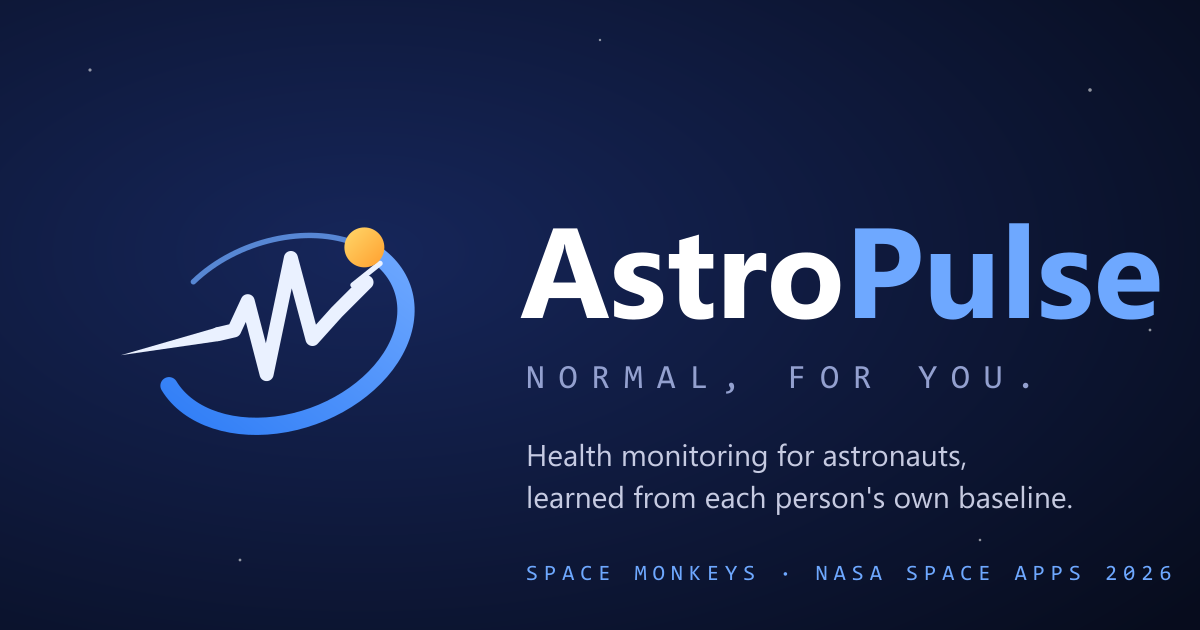
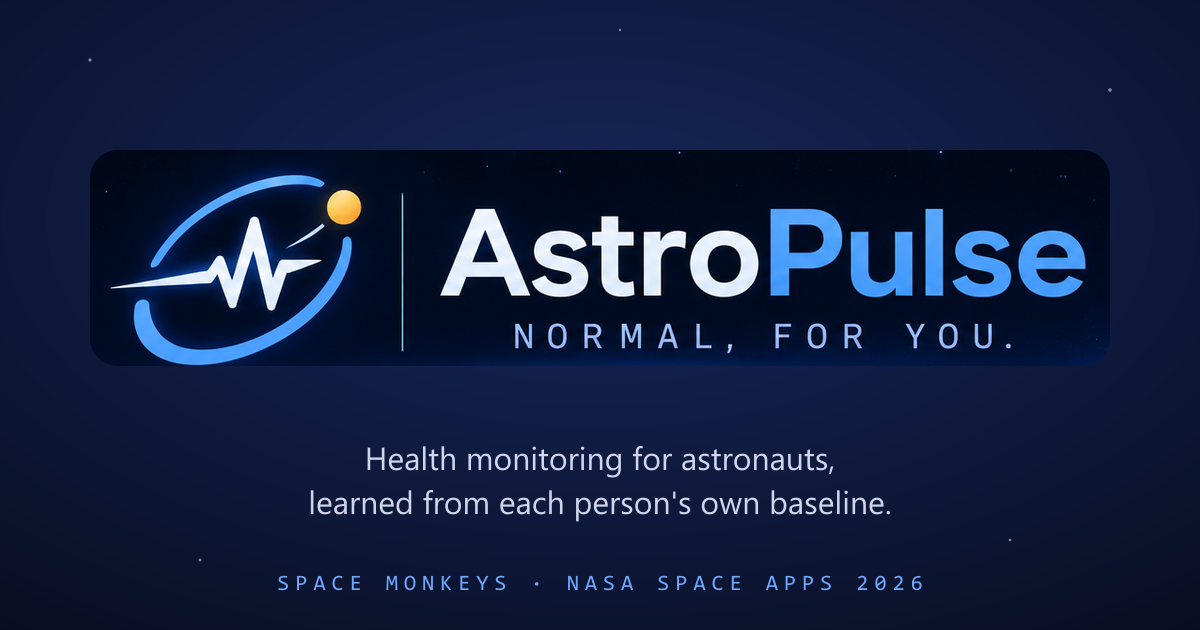
brand lockup in README/OG card; plain-language help on every page; 7-step tour; walkthrough guide
- docs/brand/logo-lockup.png (the designed horizontal lockup) used in the README; web/public/og.png built from it
- PageHelp: 'What is this page?', things to try and a short glossary at the top of each of the 8 pages (hideable, remembered per device)
- Tour: 7 plain steps incl. the camera pulse, the whole-crew view and playing the doctor on Earth
- Ground control says who you are and how the delay works
- docs/pitch/walkthrough.md: page by page, feature by feature, what to click, what happens, what to say

diff --git a/web/src/help/PageHelp.jsx b/web/src/help/PageHelp.jsx
@@ -1,0 +1,98 @@
+import { useState } from 'react'
+
+// Plain-language help at the top of every page, written for someone who has never seen the app and knows nothing about health or space:
+// what this page is, one or two things to try, and the few words that might be new. Hidden per page with "Hide tips" (remembered on this device).
+const KEY = 'astropulse.help.hidden'
+
+export const HELP = {
+  status: {
+    what: 'This is what the astronaut sees. Each card is one health number (heart rate, sleep and so on). Green means fine, yellow means keep an eye on it, red means do something now.',
+    tryIt: [
+      'On a phone, press “Measure my pulse”. On a laptop, press “Simulate readings”. A number on the page changes by itself.',
+      'Tap a card to open its chart and the reason behind it.',
+      'If something is red, press “Guide me through it”, then “Report to Earth”.',
+    ],
+    words: [
+      ['AstroPulse Index', 'One number from 0 to 100 for how far you are from your own normal.'],
+      ['Your own normal (baseline)', 'What is usual for you, learned from your first week. Not the same as other people.'],
+      ['Flagged', 'The app noticed a steady drift away from your normal.'],
+      ['Earth delay', 'A message to Earth takes minutes on a Mars mission, so the crew has to act first.'],
+      ['Hazard', 'One of NASA’s five dangers of space travel (radiation, isolation, distance, gravity, a closed space).'],
+      ['Sample data', 'Made-up numbers for the demo. The pulse from your camera and the space weather are real.'],
+    ],
+  },
+  body: {
+    what: 'A body map. Each part lights up with the color of the health numbers linked to it, so you can see where the problem is at a glance.',
+    tryIt: ['Tap a part of the body to see its numbers and the advice for it.'],
+  },
+  log: {
+    what: 'Type in numbers you measured yourself: blood pressure, blood sugar, sleep and mood. The app has no sensors for these, so you enter them by hand.',
+    tryIt: ['Fill in only what you measured, then press Send.', 'Go back to Status to see its new color.'],
+    words: [['Upper and lower blood pressure', 'Also called systolic (the first, higher number) and diastolic (the second, lower number).']],
+  },
+  checks: {
+    what: 'Two quick tests you can do right now: a reaction test (tiredness makes you slower) and a close-up vision check. They are only compared with your own earlier results.',
+    tryIt: ['Run the reaction test a few times on different days to set your own normal.', 'Or press “Load a demo baseline” at the bottom to see how it reacts.'],
+  },
+  replay: {
+    what: 'A replay of the demo story: two weeks on the way to Mars. Ordinary health apps use fixed ranges. AstroPulse compares each person with their own normal. This page shows both side by side.',
+    tryIt: ['Press Play.', 'Watch the heart rate row. It stays green all the time, but the flag shows AstroPulse noticed the drift on day 11.'],
+    words: [['G / Y / R', 'Green, yellow, red from the fixed ranges.'], ['Flag', 'The day AstroPulse raised its hand about that number.']],
+  },
+  yourdata: {
+    what: 'Try the idea on your own numbers. Export your daily resting heart rate (and sleep, if you have it) from a smartwatch or health app as a CSV file and drop it here. It never leaves your device.',
+    tryIt: ['No file? Press “Try a sample file”.', 'Compare “Fixed ranges say” with “Personal baseline says”.'],
+    words: [['CSV file', 'A very simple spreadsheet file: one row per day, with a date and a number.']],
+  },
+  crew: {
+    what: 'A made-up crew of four, to answer one question: is a change about one person, or about the place they all share? If one person drifts it is probably personal. If everyone drifts at once, it is probably the environment, like the air.',
+    tryIt: ['Switch between the three scenarios at the top.', 'Look at the cabin CO₂ line in the last card.'],
+  },
+  evidence: {
+    what: 'How we checked that the idea works, including what did not work. The numbers come from simulations and public recordings, not from real astronauts.',
+    tryIt: ['Read the three big numbers at the top.', 'Press “New crew member” further down to simulate one more person.'],
+    words: [['False alarm', 'The app warns even though nothing is wrong. Lower is better.'], ['Simulation', 'Computer-made people, used to test how the method behaves.']],
+  },
+}
+
+function read() {
+  try { return JSON.parse(localStorage.getItem(KEY) ?? '{}') } catch { return {} }
+}
+function write(v) {
+  try { localStorage.setItem(KEY, JSON.stringify(v)) } catch { /* private window */ }
+}
+
+export default function PageHelp({ tab }) {
+  const info = HELP[tab]
+  const [hidden, setHidden] = useState(() => Boolean(read()[tab]))
+  if (!info) return null
+  const set = value => {
+    setHidden(value)
+    write({ ...read(), [tab]: value })
+  }
+  if (hidden) {
+    return <button type="button" className="cam-link help-show" onClick={() => set(false)}>Show tips for this page</button>
+  }
+  return (
+    <aside className="help" aria-label="About this page">
+      <p className="help-what"><strong>What is this page?</strong> {info.what}</p>
+      {info.tryIt?.length > 0 && (
+        <>
+          <p className="help-k">Try this</p>
+          <ul className="help-list">{info.tryIt.map((t, i) => <li key={i}>{t}</li>)}</ul>
+        </>
+      )}
+      {info.words?.length > 0 && (
+        <details className="help-words">
+          <summary>Words you may see here</summary>
+          <dl>
+            {info.words.map(([w, m]) => (
+              <div key={w}><dt>{w}</dt><dd>{m}</dd></div>
+            ))}
+          </dl>
+        </details>
+      )}
+      <button type="button" className="cam-link" onClick={() => set(true)}>Hide tips</button>
+    </aside>
+  )
+}

diff --git a/web/src/tour/Tour.jsx b/web/src/tour/Tour.jsx
@@ -5,11 +5,13 @@ import { useEffect, useState } from 'react'
 const KEY = 'astropulse.tour'
 
 const STEPS = [
-  { tab: 'status', title: '1 · The crew member\'s screen', text: 'Day 14 of a simulated trip to Mars. Sleep is red, so the app says what to do now and how long Earth needs to answer. Try "Report to Earth".' },
-  { tab: 'replay', title: '2 · Normal for YOU', text: 'Press play. Heart rate never leaves green, yet the flag on day 11 shows AstroPulse noticed it was drifting from this person\'s own normal.' },
-  { tab: 'evidence', title: '3 · We tested it, and show the misses', text: 'Two thousand simulated crews, and 53 real pulse recordings for the camera feature. One hypothesis failed and it is listed.' },
-  { tab: 'yourdata', title: '4 · Try it on your own data', text: 'Have a smartwatch? Drop a CSV of daily resting heart rate. It stays in your browser. Or try the sample file.' },
-  { tab: 'status', title: '5 · Your turn', text: 'Tap "Measure my pulse" on a phone, or "Simulate readings". Open the Ground control link at the bottom to play the flight surgeon.' },
+  { tab: 'status', title: '1 · The astronaut\'s screen', text: 'This is a simulated astronaut, day 14 of a trip to Mars. Sleep is red, so the app says what to do right now and how long Earth needs to answer (40 minutes there and back).' },
+  { tab: 'status', title: '2 · Make a number change', text: 'On a phone press "Measure my pulse": it reads your real pulse through your fingertip, using only the camera. On a laptop press "Simulate readings". Then tap any card to see why.' },
+  { tab: 'replay', title: '3 · Normal for YOU', text: 'Press play. Ordinary apps use one fixed range for everybody. AstroPulse learns your own normal. Heart rate never leaves green here, yet the flag on day 11 shows it noticed a drift.' },
+  { tab: 'crew', title: '4 · One person, or the whole place?', text: 'If one person drifts it is probably personal. If the whole crew drifts together, it is probably the environment (like the air). Try the three scenarios.' },
+  { tab: 'evidence', title: '5 · Does it really work?', text: 'We tested it on 2,000 simulated crews and checked the camera pulse on 53 real recordings. One idea of ours failed, and it is listed too.' },
+  { tab: 'yourdata', title: '6 · Try it on your own data', text: 'Have a smartwatch? Drop a CSV of your daily resting heart rate. It stays in your browser. No file? Press "Try a sample file".' },
+  { tab: 'status', title: '7 · Be the doctor on Earth', text: 'At the very bottom of the page, open "Ground control view". Send a report from the astronaut, then answer it as the flight surgeon and watch the delay both ways.' },
 ]
 
 const get = () => { try { return localStorage.getItem(KEY) } catch { return null } }

diff --git a/web/src/styles.css b/web/src/styles.css
@@ -779,3 +779,15 @@ label .unit { position: absolute; right: 12px; bottom: 15px; }
 .delay-where { margin: 8px 0 4px; font-size: 0.78rem; color: var(--muted); }
 
 .brand h1 span { color: var(--accent); }
+
+/* Page help for newcomers */
+.help { margin: 12px 0; padding: 12px 14px; border: 1px solid var(--line); border-left: 4px solid var(--accent); border-radius: 12px; background: var(--card); font-size: 0.92rem; line-height: 1.55; }
+.help p { margin: 0 0 6px; }
+.help-k { margin: 8px 0 2px; font-size: 0.72rem; text-transform: uppercase; letter-spacing: 0.08em; color: var(--muted); }
+.help-list { margin: 0 0 8px; padding-left: 20px; }
+.help-words summary { cursor: pointer; color: var(--accent); margin: 4px 0; }
+.help-words dl { margin: 6px 0; display: grid; gap: 6px; }
+.help-words dt { font-weight: 700; }
+.help-words dd { margin: 0 0 0 0; color: var(--muted); }
+.help-show { display: block; margin: 8px 0; }
+.gr-who { margin: 6px 0 0; font-size: 0.85rem; opacity: 0.9; max-width: 640px; }

diff --git a/web/src/App.jsx b/web/src/App.jsx
@@ -6,6 +6,7 @@ import CameraPulse from './live/CameraPulse.jsx'
 import useLive from './live/useLive.js'
 import useOutbox from './offline/useOutbox.js'
 import Tour from './tour/Tour.jsx'
+import PageHelp from './help/PageHelp.jsx'
 import BrandMark from './brand/BrandMark.jsx'
 import { getLang, setLang, useLang } from './i18n/lang.js'
 import EntryForm from './entry/EntryForm.jsx'
@@ -143,7 +144,10 @@ function CrewApp() {
             {pending} reading{pending === 1 ? '' : 's'} saved on this device, waiting for a connection.
           </p>
         )}
-        <main id="main" tabIndex="-1">{SCREENS[tab]}</main>
+        <main id="main" tabIndex="-1">
+          <PageHelp tab={tab} key={tab} />
+          {SCREENS[tab]}
+        </main>
         <footer>
           <p className="disclaimer">Decision support, not a diagnosis.</p>
           <small>

diff --git a/web/src/ground/GroundScreen.jsx b/web/src/ground/GroundScreen.jsx
@@ -134,6 +134,7 @@ export default function GroundScreen() {
         <div>
           <p className="gr-brand">AstroPulse · Ground Control</p>
           <h1>Flight surgeon console</h1>
+          <p className="gr-who">You are the doctor on Earth. When the astronaut sends a report it arrives after the signal delay. Write a reply and it takes the same time to get back.</p>
         </div>
         <a className="gr-link" href="#status">
           Open crew screen

diff --git a/docs/pitch/walkthrough.md b/docs/pitch/walkthrough.md
@@ -1,0 +1,132 @@
+# دليل المشي: صفحة بصفحة وميزة بميزة
+
+اقراه وإنت فاتح التطبيق جنبك. لكل صفحة: **إيه هي، وتعمل فيها إيه، وإيه اللي المفروض يحصل، وتقول إيه للحكم.**
+الكلام اللي بين علامتي تنصيص بالإنجليزي هو النص اللي مكتوب على الشاشة بالظبط.
+
+> لو إنت جديد على التطبيق: كل صفحة فيها فوق صندوق **"What is this page?"** بيشرح نفس الكلام بالإنجليزي البسيط، وزرار **"Take the 60-second tour"** بيمشّيك على الصفحات الأساسية. وتقدر تقفل أي صندوق بـ **"Hide tips"**.
+
+---
+
+## الفكرة كلها في 3 جمل
+
+1. رائد فضاء في رحلة للمريخ مش هيقدر يكلّم دكتور فورًا. الرد بياخد حوالي **20 دقيقة في كل اتجاه** (يعني 40 دقيقة ذهاب وإياب).
+2. التطبيقات العادية بتقول "نبضك طبيعي" لو بين 60 و100 مثلًا، بنفس الرقم للكل. **AstroPulse بيتعلّم "طبيعيّك أنت"** من أول أسبوع، وبيقولك لما تبعد عنه، حتى لو أرقامك لسه "عادية".
+3. ولما يبقى فيه مشكلة، بيقولك **تعمل إيه دلوقتي**، ويوريك الدكتور هيرد بعد قد إيه.
+
+**جملة الختام:** "Not what is normal. What is normal for *you*."
+
+---
+
+## 1) Status: الشاشة الرئيسية (اللي بيشوفها الرائد)
+
+**إيه هي:** كل كارت رقم صحي واحد (نبض، أكسجين، حرارة، ضغط، سكر، نوم، مزاج). **أخضر** = تمام، **أصفر** = راقب، **أحمر** = اعمل حاجة دلوقتي.
+
+**اللي بتشوفه من فوق لتحت:**
+- **"Overall: Red"**: ملخص الحالة. في الديمو النوم أحمر (4.9 ساعة).
+- **"DECISION NEEDED NOW"** (شاشة القرار): بتقول "الرد من الأرض هياخد **40 min**" وتنصحك **"Don't wait for Earth. Act now"**. أزرار **Station / Moon / Mars** بتغيّر التأخير (الثانية، ثانية وربع، 20 دقيقة في الاتجاه). الخطوات (بالإنجليزي، وعربي لو دوست "Advice").
+- **"Guide me through it"**: مسار خطوات: اعمل الخطوة ← استنى ← قيس تاني ← قرار ← بلّغ الأرض بما جرّبته.
+- **"Report to Earth"**: بيبعت تقرير للدكتور.
+- **كارت AstroPulse Index** (دايرة بنسبة من 0 لـ100): "0 يعني طبيعيّك بالظبط، 100 يعني بعيد عنه". تحتها أكتر 3 حاجات مبعدة.
+- **كارت "Radiation environment"**: طقس الفضاء الحقيقي من NOAA، وسطر NASA DONKI (توهجات الشمس). فيه زرار **"Preview a simulated solar storm"** بيورّيك شكل التطبيق لو فيه عاصفة (مكتوب عليها Simulated).
+- **كروت المؤشرات:** اضغط أي كارت يفتح الرسم والسبب ("Model flagged this") ومدى ثقتنا ("How sure are we?").
+- آخر الصفحة: **"Privacy: what Earth can see"** (تختار إيه اللي يتبعت للدكتور، والأحمر بيتبعت دايمًا)، **"Print a summary for the flight surgeon"**، وروابط تحميل بياناتك CSV وتوثيق الـAPI.
+
+**جرّب:**
+1. دوس **"Measure my pulse with the phone camera"** على موبايل (بيفتح تعليمات الأول): دوّر على ضوء، **بطن إصبعك** على الكاميرا والفلاش **من غير ضغط**، اتفرّج على الصورة الصغيرة لحد ما تبقى **حمرا**، واثبت 25 ثانية. بعدين **"Send as my heart rate"**: النبض بيظهر في كارت Heart rate.
+   على اللابتوب أو لو الكاميرا ما اشتغلتش: **"Simulate readings"**.
+2. كارت **Heart rate**: لونه "Healthy" لكن عليه علامة **"Model flagged this"** وتوقع "red in about 14.8 days". دي أهم لحظة: **اللون أخضر، والتطبيق شايف إن فيه انحراف.**
+3. دوس **"Guide me through it"** على النوم ثم **"Report to Earth"**.
+
+**قول للحكم:** "ده الرقم الأخضر اللي أي تطبيق عادي هيقولك عليه تمام. إحنا شايفين إنه بيبعد عن طبيعي الشخص ده."
+
+---
+
+## 2) Ground control: شاشة الدكتور على الأرض
+
+افتحها من الرابط اللي في آخر Status ("Ground control view") أو `/#ground`، **في تاب تاني**.
+
+**إيه هي:** إنت دلوقتي الدكتور. التقارير بتوصلك **بعد التأخير** (وقبل ما توصل بتبقى عدّاد "Signal in transit" من غير محتوى).
+
+**جرّب:**
+1. من شاشة الرائد دوس **Report to Earth**. اقلب لتاب الأرض: تقرير "in transit" بعدّاد.
+2. **"Skip to next arrival"** (تحت في Demo controls) بيقدّم الساعة لحد ما يوصل. دلوقتي التقرير مفتوح.
+3. اكتب رد (أو اختار واحد من الجاهزين) ودوس **"Send reply"**: "Your reply is on its way... arrives in 20:00".
+4. دوس **"Skip to next arrival"** تاني، وارجع لشاشة الرائد: **"Reply from Earth"** ظهر عنده.
+5. **"Restore demo data"** بيرجّع كل حاجة لحالتها الأولى (لازم تدوسه بعد كل تجربة).
+
+**قول للحكم:** "الرد بيعدّي نفس التأخير راجع. رحلة المريخ الكاملة 40 دقيقة، وده اللي الطاقم لازم يتعامل معاه."
+
+---
+
+## 3) Body: الجسم
+
+كل جزء من الجسم بيلمّع بلون المؤشرات المرتبطة بيه. **اضغط عضو** يفتح أرقامه ونصايحه. مفيد لحد يفهم بصريًا فين المشكلة.
+
+## 4) Log vitals: تسجيل بالإيد
+
+لو عندك جهاز ضغط أو سكر: اكتب الأرقام (الضغط العلوي والسفلي، السكر، ساعات النوم، المزاج من 1 لـ5) ودوس Send. بتظهر في Status بلونها. التطبيق مفيهوش حساسات للحاجات دي، فدي بتتكتب بإيد الشخص. لو الإنترنت قطع، بتتحفظ على الجهاز وتتبعت لوحدها لما يرجع.
+
+## 5) Quick tests: اختبارات سريعة
+
+- **Reaction test:** دوس Start، استنى البلاطة تبقى خضرا، وادوس بسرعة. 8 مرات. التعب بيبطّأ رد الفعل. **بيقارنك بنفسك بس**: أول 3 مرات بيعرف "طبيعيّك"، بعدها بينبّهك لو بقيت أبطأ مرتين ورا بعض.
+- **Near-vision check:** اختار أصغر سطر تقدر تقراه. ناسا بتتابع تغيّر النظر في الرحلات الطويلة.
+- **"Load a demo baseline"** (تحت) بيملا أول 3 مرات عشان تشوف رد الفعل من غير ما تستنى أيام.
+
+## 6) Replay: أهم صفحة لشرح الفكرة
+
+بتعيد قصة "اليوم 143": أسبوعين في الطريق للمريخ. كل صف مؤشر، وكل عمود يوم. **G/Y/R** = اللون من المدى الثابت. **علم ⚑** = اليوم اللي AstroPulse قال فيه "فيه انحراف".
+
+**جرّب:** دوس **Play**. اتفرّج على صف **Heart rate**: أخضر كل الأيام، بس العلم ظهر **يوم 11**. وصف النوم: الألوان سبقت (مكتوب بصراحة إن الموديل مش دايمًا أسرع).
+**الصف الأخير** (AstroPulse Index) بيطلع من 0 لـ100.
+
+## 7) Whole crew: الشخص ولا البيئة؟
+
+طاقم محاكى من 4. لو **واحد** نومه بيقل، الغالب السبب شخصي. لو **الأربعة** مع بعض، الغالب السبب البيئة (زي الهواء). تحت فيه خط **CO₂** الكابينة مع حد ناسا. بدّل بين 3 سيناريوهات (Calm / One person / Everyone).
+
+## 8) Your data: جرّب على بياناتك
+
+لو عندك ساعة ذكية أو تطبيق صحة: صدّر ملف CSV بنبض الراحة (والنوم) كل يوم، وارفعه (أو اسحبه). **بيتقرا في المتصفح بس، مفيش حاجة بتتبعت لأي مكان.** مفيش ملف؟ **"Try a sample file"** (رياضي لياقته عالية، نبضه 51، فالألوان الثابتة تعلّمه كل يوم تقريبًا!). بيوريك 3 كروت: طبيعيّك، وإيه اللي بتقوله الألوان الثابتة، وإيه اللي بيقوله AstroPulse.
+
+## 9) Evidence: الدليل والحدود
+
+أهم صفحة للمحكّمين العلميين. فيها:
+- **3 أرقام كبيرة:** 94% مقابل 69% (بنفس الإنذارات الكاذبة)، و97% بـ4.7% إنذارات كاذبة، و94% إنذارات كاذبة من أول موديل لينا (بنكتبها بصراحة).
+- **رسم السرعة مقابل الإنذارات الكاذبة** والجداول والفرضيات اللي كتبناها قبل التجربة (واحدة فشلت وبنقول).
+- **"The pulse algorithm on real recordings":** 53 تسجيل حقيقي، متوسط الخطأ 1.1 نبضة.
+- **"Outside evidence":** دراسة Mishra 2020.
+- **"New crew member":** رائد افتراضي جديد في المتصفح.
+- **"What this does not show":** الحدود بصراحة.
+
+**قول للحكم:** "كل الأرقام دي من محاكاة وتسجيلات عامة، مش من رواد حقيقيين. وبنقول كده بوضوح."
+
+---
+
+## مميزات تانية (مش تبويبات)
+
+| الميزة | فين |
+|---|---|
+| **اللغة** (نصايح بالعربي) | زرار "Advice: English" فوق |
+| **قراءة بصوت** | زرار "Read aloud" على أي نصيحة |
+| **تباين عالي** | Status ← Privacy ← "High-contrast display" |
+| **الخصوصية** | Status ← "Privacy: what Earth can see" (الأحمر بيتبعت دايمًا) |
+| **طباعة تقرير** للدكتور | Status ← "Print a summary for the flight surgeon" |
+| **أوفلاين** | تثبيت التطبيق على الموبايل (Add to Home Screen)، بيفتح من غير نت، والقراءات بتتحفظ وتتبعت لما النت يرجع |
+| **تحميل بياناتك** | Status ← Privacy ← "download your readings (CSV)" |
+| **توثيق الـAPI** | `/swagger` |
+
+## للمطوّرين والحكام التقنيين
+
+- `GET /api/status` (لون ونصيحة كل مؤشر، `&lang=ar` للعربي)، `/api/explain` و`/api/forecast` (الموديل)، `/api/space-weather`، `/api/export`، و`/swagger` (كل الـAPI موثّق).
+- الموديل مكتوب بـC# وشغّال على السيرفر، ومتأكدين إنه مطابق لنسخة بايثون الأصلية باختبارات.
+- `node scripts/preflight.mjs <الرابط>` بيفحص النسخة الحية في دقيقة.
+
+---
+
+## لو حاجة ما اشتغلتش وأنت بتجرّب
+
+| المشكلة | الحل |
+|---|---|
+| الكاميرا ما بتقراش | الصورة الصغيرة لازم تبقى **حمرا**. حرّك صباعك على العدسات. ما تضغطش. ضوء أقوى. وإلا: "Simulate readings". |
+| الصفحة قديمة | اقفل التاب وافتحه تاني (التطبيق بيتخزّن للأوفلاين). |
+| الديمو متلخبط | `/#ground` ← "Restore demo data". |
+| بانر "New here?" طالع على جهاز العرض | دوس "No thanks". |

diff --git a/docs/ai-usage.md b/docs/ai-usage.md
@@ -68,3 +68,4 @@
 | السبت | عبدالرحمن | Claude Code | إصلاح قياس نبض الكاميرا على iPhone Safari (مفيش فلاش من صفحة ويب): كشف الإصبع بيشتغل في الإضاءة العادية، والقبول بيعتمد على جودة الإشارة، ورسائل أوضح وسطر تشخيص بالألوان اللي الكاميرا شايفاها |
 | السبت | عبدالرحمن | Claude Code | معاينة حيّة صغيرة للكاميرا أثناء قياس النبض عشان الشخص يشوف أنهي عدسة شغّالة ومتى الإصبع يغطيها (الصورة تبقى حمرا)، وتعليمات "حط إصبعك فين" لموبايلات فيها عدسات كتير |
 | السبت | عبدالرحمن | Claude Code | الهوية البصرية: إعادة رسم لوجو AstroPulse (من تصميم ChatGPT) كـSVG نضيف مع نسخ داكنة وفاتحة وأحادية اللون، وأيقونات التطبيق والمتصفح والموبايل وصورة المشاركة (docs/brand وweb/public)، وربطها بالهيدر والـREADME، وتحسينات UX للمستخدم الجديد (تعليمات الكاميرا قبل القياس، أسماء تبويبات أوضح، لغة بسيطة في الـIndex، شرح اختيار مكان الطاقم) |
+| السبت | عبدالرحمن | Claude Code | استخدام اللوجو الأفقي الأصلي في README وصورة المشاركة، وصندوق مساعدة بلغة بسيطة أعلى كل صفحة (PageHelp) مع شرح الكلمات الجديدة، وتحديث الجولة التعريفية لـ7 خطوات، وسطر "إنت الدكتور" في شاشة الأرض، ودليل المشي صفحة بصفحة docs/pitch/walkthrough.md |

diff --git a/docs/pitch/video-script.md b/docs/pitch/video-script.md
@@ -10,7 +10,7 @@ Draft for the team (Nada and Ammar own the final cut). Written to fit **30 secon
 | 5–11 s | Hand on a phone: fingertip on the camera. The pulse number appears and the body lights up. | "AstroPulse reads your pulse with the phone's camera. No extra hardware." |
 | 11–19 s | **Replay** tab. Heart-rate row stays green, a flag lands on day 11. | "Fixed ranges say your heart rate is fine. AstroPulse compares you with *your own* normal, and flags the drift days earlier." |
 | 19–25 s | Decision screen goes red: "40 min round trip, act now." | "When it turns red, it tells you what to do right now, and how long Earth needs to answer." |
-| 25–30 s | Ground screen: the doctor's reply arrives. End card: the logo (`docs/brand/logo-mark.svg` on the dark background) with **AstroPulse. Normal, for you.** | "Fixed ranges ask: is this normal? AstroPulse asks: normal for whom?" |
+| 25–30 s | Ground screen: the doctor's reply arrives. End card: the lockup `docs/brand/logo-lockup.png` with **AstroPulse. Normal, for you.** | "Fixed ranges ask: is this normal? AstroPulse asks: normal for whom?" |
 
 ### Recording notes
 

diff --git a/docs/brand/README.md b/docs/brand/README.md
@@ -13,7 +13,9 @@ An **orbit ring** (the person's own baseline), a **heartbeat line** crossing it 
 | `app-icon.svg` | Dark app icon (rounded square). Also the favicon (`web/public/icon.svg`). |
 | `app-icon-light.svg` | Light app icon, for white backgrounds and documents. |
 | `logo-mono-white.svg` / `logo-mono-black.svg` | One-color versions (print, watermarks, stamps). |
-| `og.svg` | Social card source (1200x630): mark, wordmark, tagline. |
+| `logo-lockup.png` | The horizontal lockup (mark + wordmark + tagline) as designed: use it as is on dark backgrounds, in the README, slides and video end card. |
+| `og-card.png` | The social card (1200x630) built from the lockup; also `web/public/og.png`. |
+| `og.svg` | An alternative social card drawn from the SVG mark. |
 | `make_logo.py` | Draws all of the above from a few numbers. |
 | `export-png.mjs` | Renders the PNGs the web app needs (icons, social card). |
 

diff --git a/docs/submission.md b/docs/submission.md
@@ -50,6 +50,8 @@
 
 ## مواد جاهزة (مسودات بالإنجليزي)
 
+**دليل المشي صفحة بصفحة (للتدريب على العرض):** `docs/pitch/walkthrough.md`.
+
 **الساعة الأخيرة بالترتيب** (النشر، فحص اللينك الحي بـ`node scripts/preflight.mjs`، تجربة الموبايل، الفورم): `docs/pitch/final-hour.md`.
 
 في `docs/pitch/`: سكريبت الفيديو (30 ثانية و60 ثانية)، محتوى السلايدز الـ7، أسئلة الحكام المتوقعة، نص فورم التسليم، وقايمة تحضير يوم العرض. ندى وعمار يراجعوها ويعدّلوها.

diff --git a/docs/pitch/slides.md b/docs/pitch/slides.md
@@ -3,7 +3,7 @@
 Draft content for Nada. One idea per slide, big numbers, no paragraphs. Screens come from the live app (take screenshots after **Restore demo data**).
 
 ## 1. Cover
-**AstroPulse** (logo: `docs/brand/`) — health monitoring for astronauts. *Normal, for you.*
+**AstroPulse** (logo: `docs/brand/logo-lockup.png`) — health monitoring for astronauts. *Normal, for you.*
 Team Space Monkeys · NASA Space Apps Challenge 2026, Cairo · live link + QR code.
 
 ## 2. The problem

diff --git a/README.md b/README.md
@@ -1,6 +1,6 @@
 <!-- TODO before submitting: add the demo video link under "Live app" (f3). -->
 
-<p align="center"><img src="docs/brand/app-icon.svg" width="112" alt="AstroPulse logo"></p>
+<p align="center"><img src="docs/brand/logo-lockup.png" width="640" alt="AstroPulse: Normal, for you."></p>
 
 # AstroPulse
 
